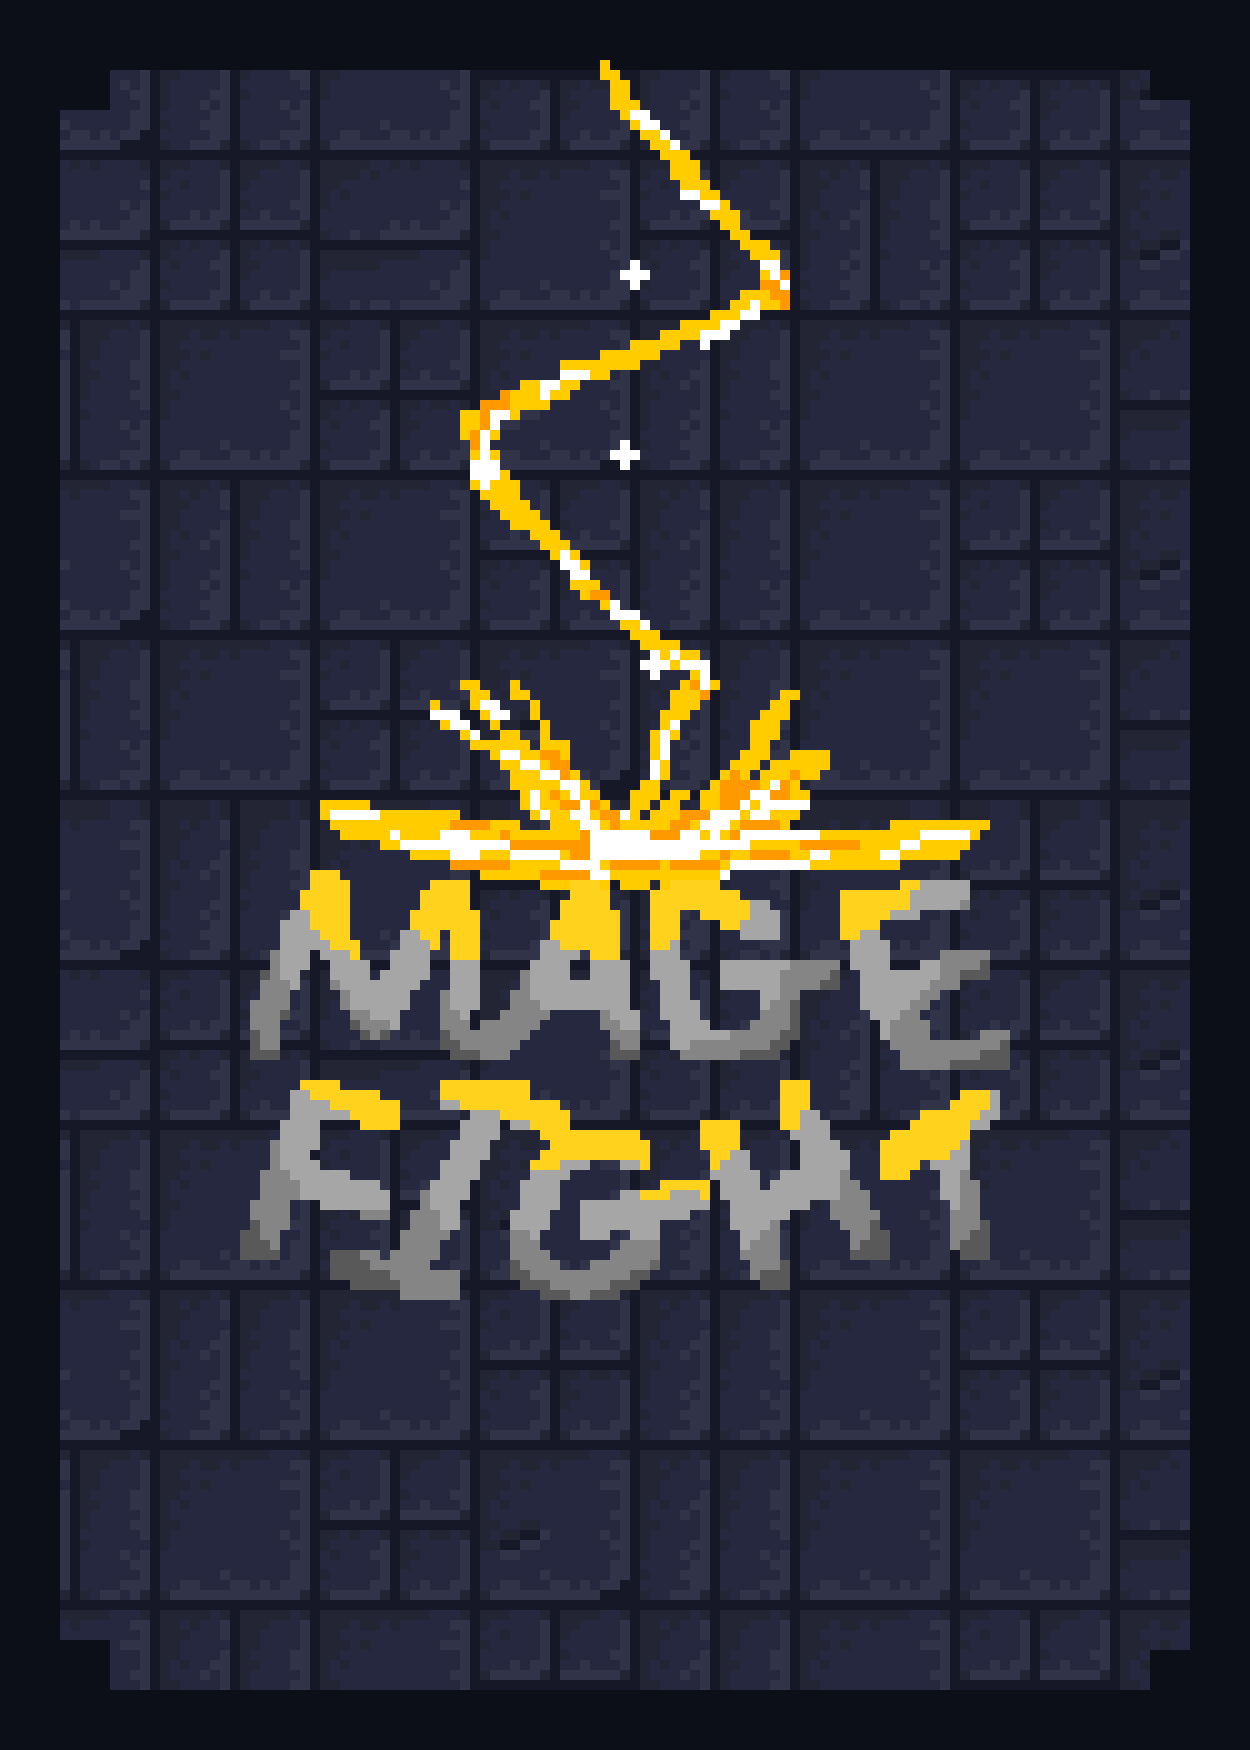
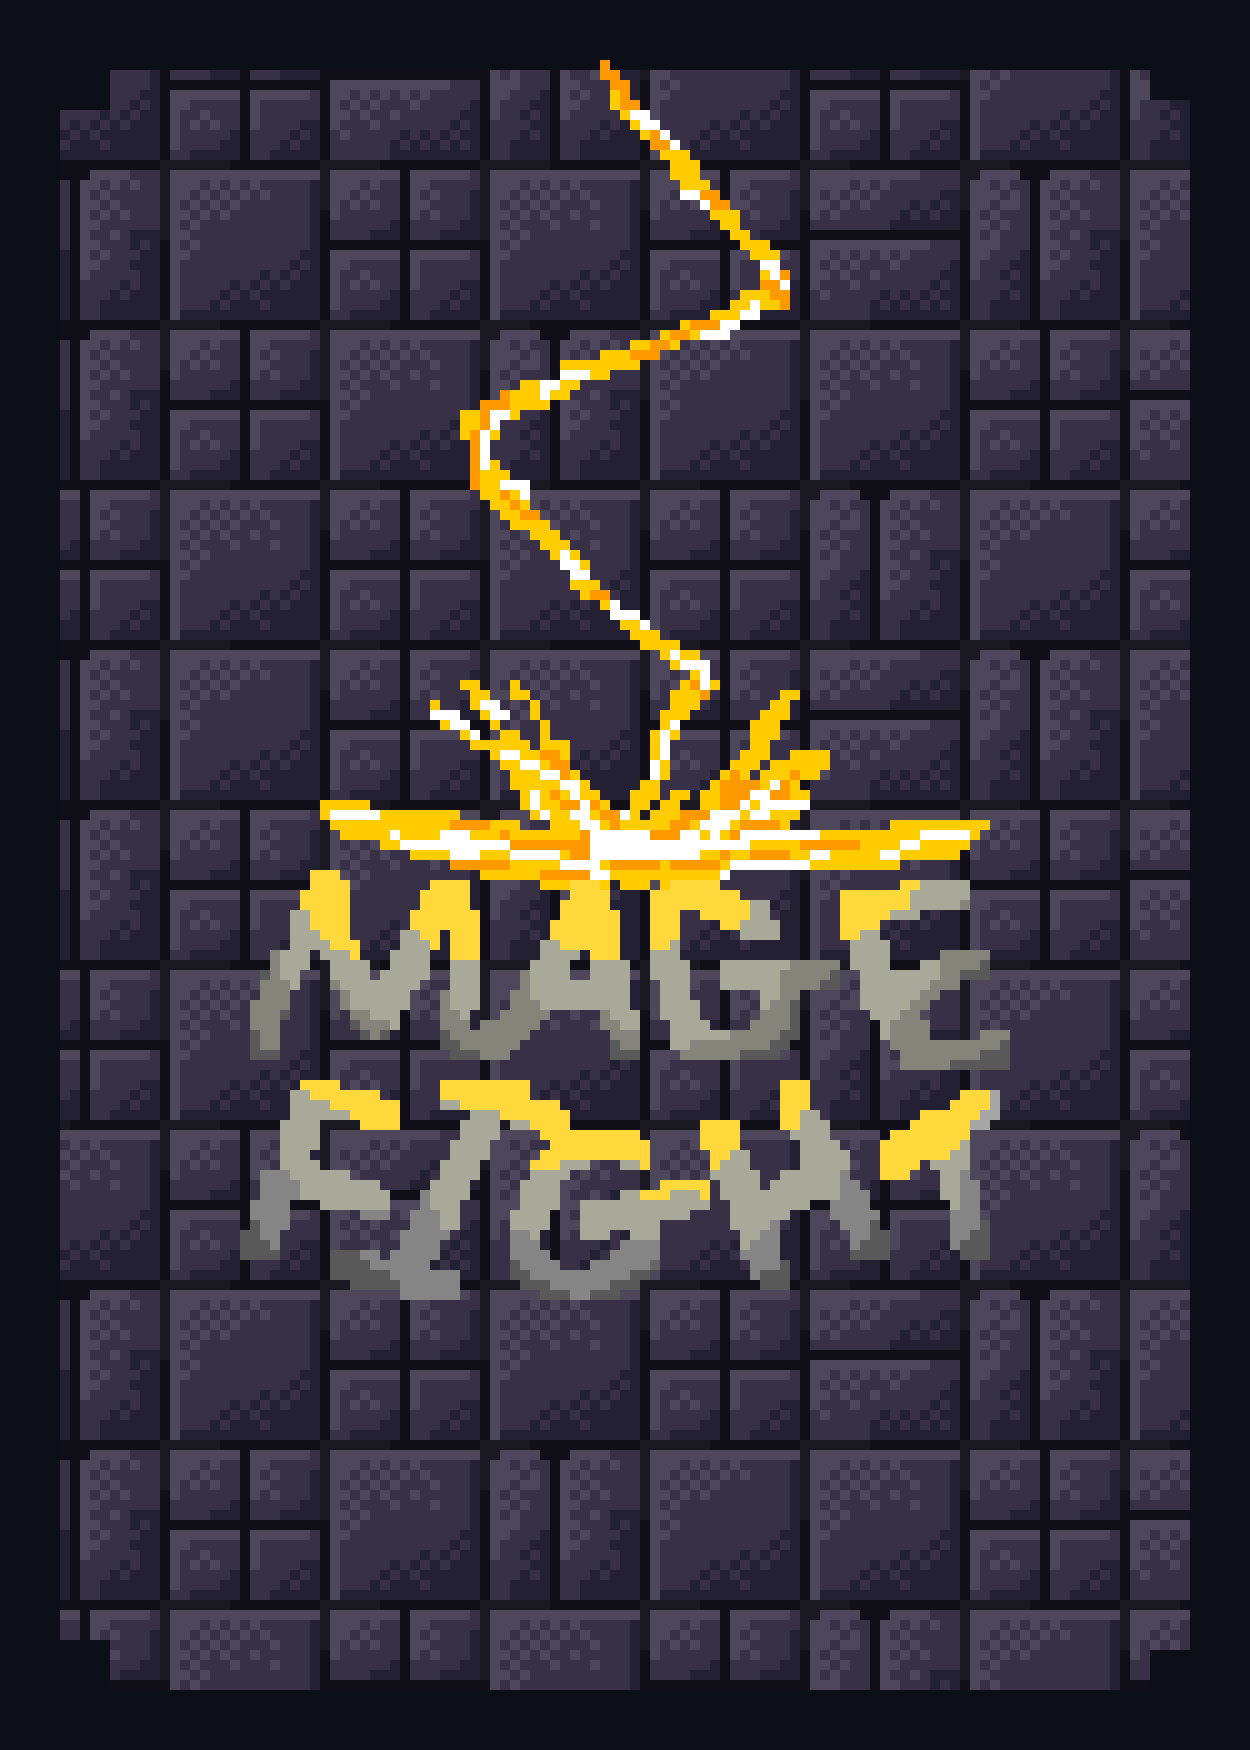
refactor(board): Update floor texture handling and replace with new tile assets

Changed region(s): [[0.0312, 0.0309, 0.9672, 0.9874]]

diff --git a/src/ofApp.cpp b/src/ofApp.cpp
@@ -630,25 +630,25 @@ void ofApp::setup() {
 	ofLoadImage(wallDarkTexture, "Board/wallDark.png");
 	wallDarkTexture.setTextureMinMagFilter(GL_NEAREST, GL_NEAREST);
 
-	// Load Floor Textures (Floor1.PNG to Floor6.PNG)
+	// Load Board Tile Textures (Tile1.png to Tile4.png) — randomized per-tile
 	floorTextures.clear();
 	floorMeshes.clear();
 
-	// Loop from 1 to 6
-	for (int i = 1; i <= 6; i++) {
+	// Loop from 1 to 4 (Tile1.png .. Tile4.png)
+	for (int i = 1; i <= 4; i++) {
 		ofTexture tex;
-		// Construct filename: "Board/Floor1.PNG", etc.
-		// Note: .PNG is case-sensitive on some systems
-		string filename = "Board/Floor" + ofToString(i) + ".PNG";
+		string filename = "Board/Tile" + ofToString(i) + ".png";
 
 		if (ofLoadImage(tex, filename)) {
 			tex.generateMipmap();
 			tex.setTextureMinMagFilter(GL_NEAREST_MIPMAP_NEAREST, GL_NEAREST);
+			tex.setTextureWrap(GL_CLAMP_TO_EDGE, GL_CLAMP_TO_EDGE);
 			floorTextures.push_back(tex);
 
 			ofMesh m;
 			m.setMode(OF_PRIMITIVE_TRIANGLES);
 			floorMeshes.push_back(m);
+			ofLogNotice("Setup") << "Loaded board tile: " << filename;
 		} else {
 			ofLogError("Setup") << "Failed to load " << filename;
 		}
